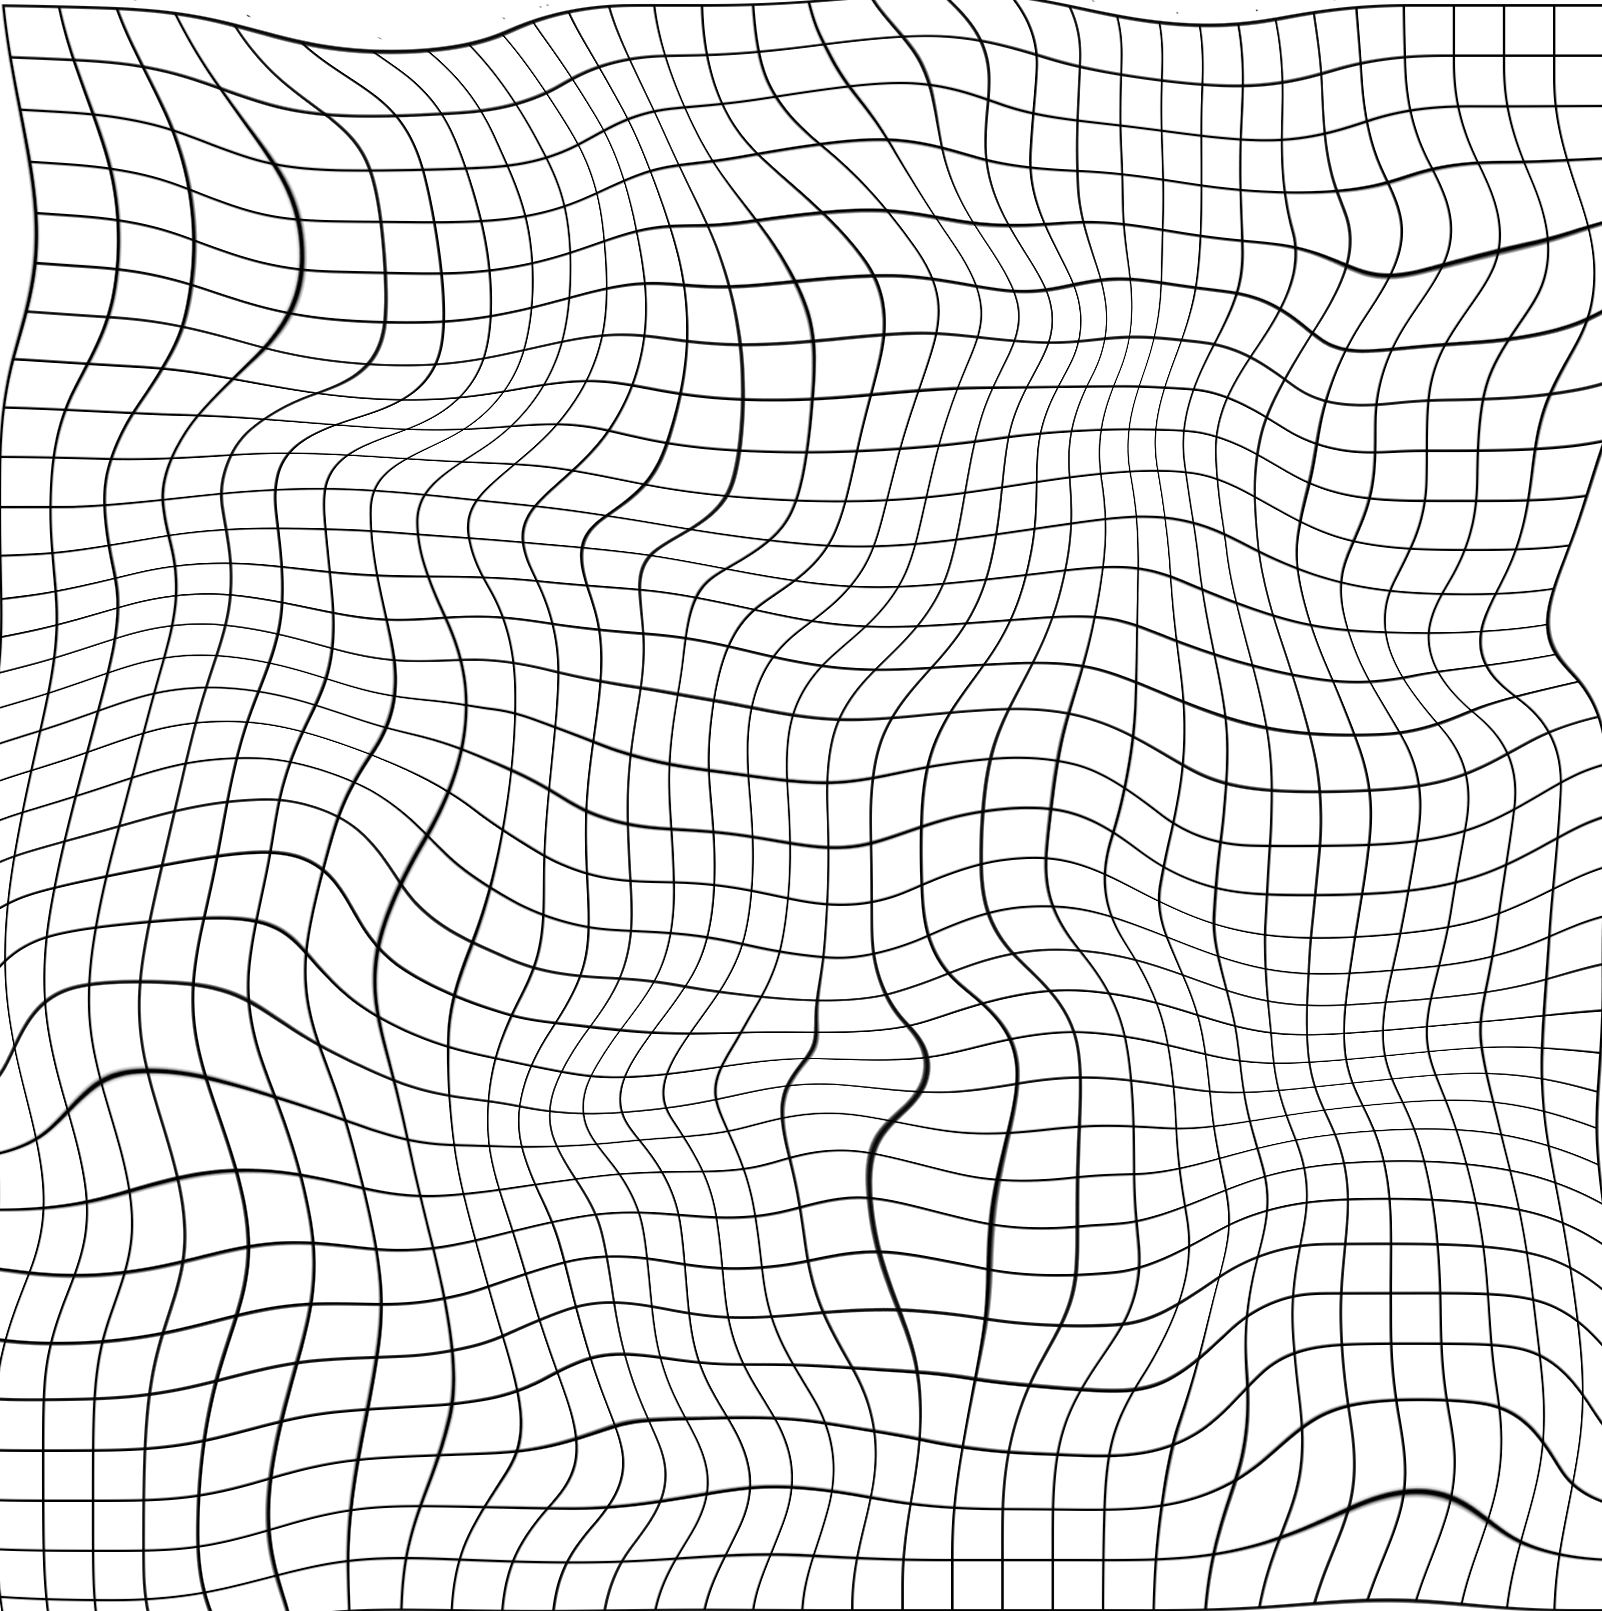
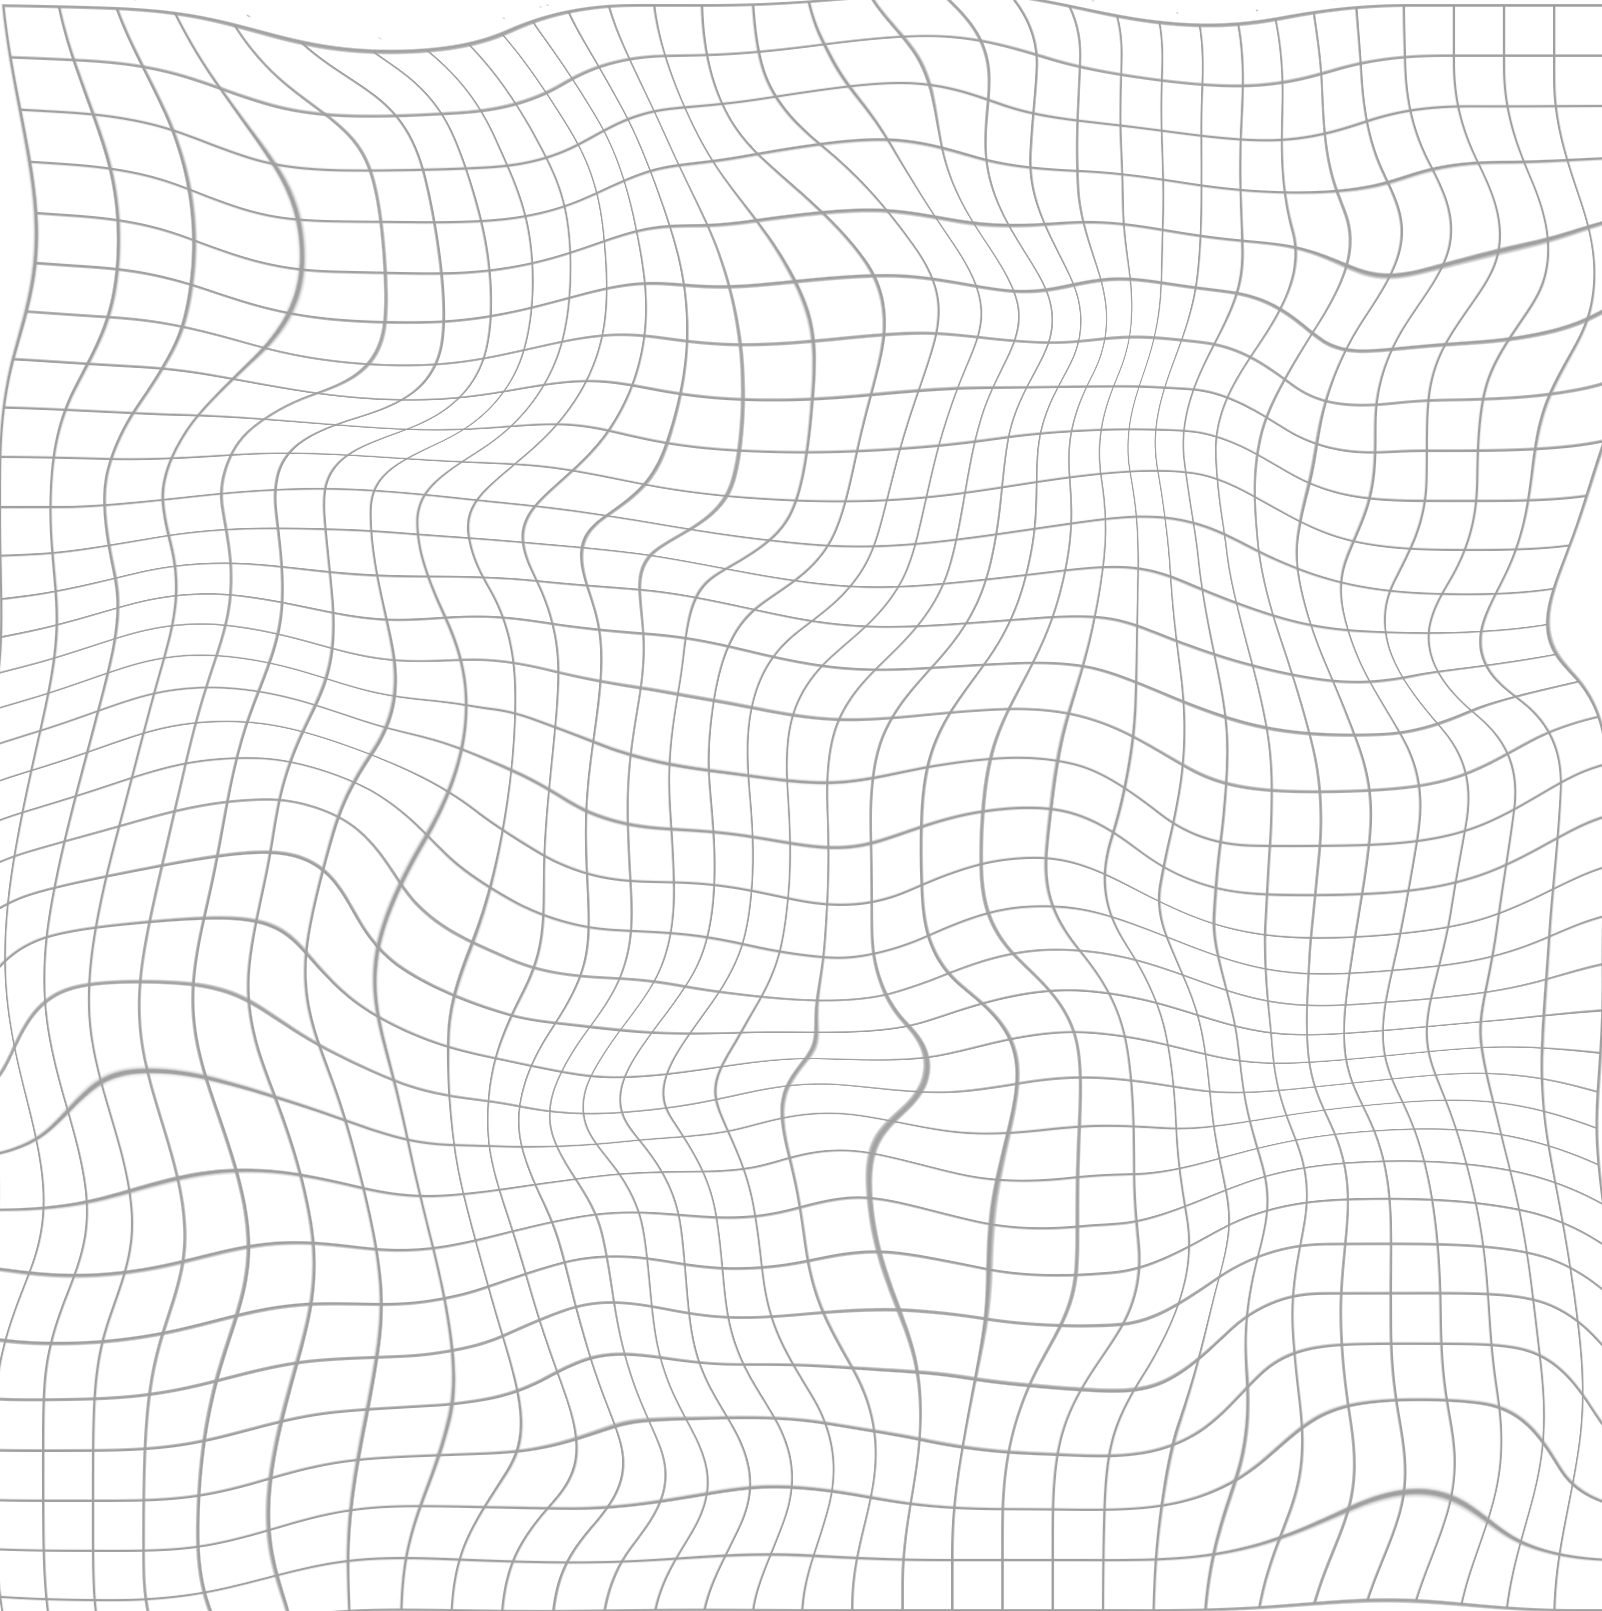
change the color theme and background image of main lay out

Changed region(s): [[0.0, 0.0, 1.0, 1.0], [0.9988, 0.869, 1.0, 0.9001], [0.9675, 0.9001, 0.9988, 0.9311]]

diff --git a/public/css/main.css b/public/css/main.css
@@ -1,12 +1,12 @@
 :root{
     --dark-blue:#253054;
     --light-yellow: #F4E39A;
-    --bright-red: #ff0000;
-    --red: #cc2727;
+    --red: #b41c1c;
     --dark-red: #941515;
-    --blue:#334B89;
+    --blue:#93b2ff;
     --mustard-yellow: #E7A72C;
-    --light-warm-gray: #FDEECD;
+    --light-warm-gray: #e5e5e5;
+    --dark-cold-gray: #333337;
 }
 
 *{
@@ -14,7 +14,7 @@
 }
 
 body{
-    background-color: var(--light-warm-gray);
+    background-color: var(--dark-cold-gray);
 }
 
 #header{
@@ -24,17 +24,17 @@ body{
     justify-content: space-between;
     border-radius: 20px;
     margin: 20px 10px;
-    color: var(--dark-blue);
+    color: var(--light-warm-gray);
 }
 
 a{
     text-decoration: none;
     font-size: 18px;
-    color: var(--dark-blue);
+    color: var(--light-warm-gray);
 }
 
 li a:hover{
-    color: var(--mustard-yellow);
+    color: var(--red);
     cursor: pointer;
     text-decoration: underline;
 }
@@ -47,7 +47,7 @@ li a:hover{
 }
 
 #logo:hover{
-    color: var(--mustard-yellow);
+    color: var(--blue);
     cursor: pointer;
 }
 
@@ -89,67 +89,58 @@ li a:hover{
     position: absolute;
     top: 0;
     left: 50%;
-    transform: translateX(-50%);
-    background-color: var(--bright-red);
+    transform: translateX(-75%);
+    background-color: var(--red);
     width: 800px;
     height: 800px;
     border-radius: 50%;
     z-index: 2;
 }
 
-#introCircleShadow{
-    position: absolute;
-    top: 0;
-    left: 27.5%;
-    background-color: var(--dark-blue);
-    width: 800px;
-    height: 800px;
-    z-index: -2;
-    border-radius: 50%;
-}
-
 #gridDistorted{
     position: absolute;
     top: 0;
     left: 27%;
-    transform: translateX(-50%);
-    width: 690px;    
-    height: 700px;        
+    transform: translateX(-75%);
+    width: 550px;    
+    height: 650px;        
     z-index: -1;
 }
 
-
-#koiFish {
-    position: absolute;
-    top: 120px;
-    left: 52%;
-    transform: translate(-150%, -30%) scaleX(-1) rotate(-20deg);
-    z-index: 3;
-    width: 350px;
-    opacity: 95%;
-}
-
-#koiFish2 {
-    position: absolute;
-    top: 120px;
-    left: 52%;
-    transform: translate(30%, 70%) scaleY(-1) rotate(-15deg);
-    z-index: 3;
-    width: 350px;
-    opacity: 95%;
-}
-
 #japaneseTitle{
-    font-size: 240px;
+    color: var(--light-warm-gray);
+    font-size: 120px;
     font-weight: bold;
     position: absolute;
     text-wrap: wrap;
-    width: 15%;
+    width: 10%;
     top: 0;
     left: 50%;
-    transform: translate(-45%, -30%);
+    transform: translate(-320%, -25%);
     z-index: 4;
-    text-shadow: 5px 3px var(--light-yellow);
+    line-height: 120px;
+    text-shadow: 5px 3px var(--dark-blue);
+}
+
+#japaneseTitle2{
+    color: var(--light-warm-gray);
+    font-size: 30px;
+    font-weight: bold;
+    position: absolute;
+    text-wrap: wrap;
+    top: 0;
+    left: 60%;
+    transform: translate(-300%, -25%);
+    z-index: 4;
+    text-shadow: 5px 3px var(--dark-blue);
+}
+
+#temple{
+    position: absolute;
+    top: 10%;
+    right: 31%;
+    width: 630px;
+    z-index: 5;
 }
 
 #mainText{

diff --git a/views/main.html b/views/main.html
@@ -27,11 +27,10 @@
 
     <div id="mainDesign">
         <div id="introCircle"></div>
-        <div id="introCircleShadow"></div>
         <img id="gridDistorted" src="../images/IMG_1345.PNG" alt="distorted grid">
-        <img id="koiFish" src="../images/Screenshot 2025-11-18 at 21.37.00.png" alt="koi fish">
-        <img id="koiFish2" src="../images/Screenshot 2025-11-18 at 21.37.00.png" alt="koi fish2">
         <p id="japaneseTitle">日本語</p>
+        <p id="japaneseTitle2">Learn Japanese</p>
+        <img id="temple" src="../images/simple-buddhist-temple-silhouette-in-black-style-vector.png" alt="temple">
         <div id="mainText">
             <p>Want to improve your Japanese writing abilities with writing excersices? Join today and you also can practise your Kanji writing abilities with us.</p>
             <a>Join Now →</a>
